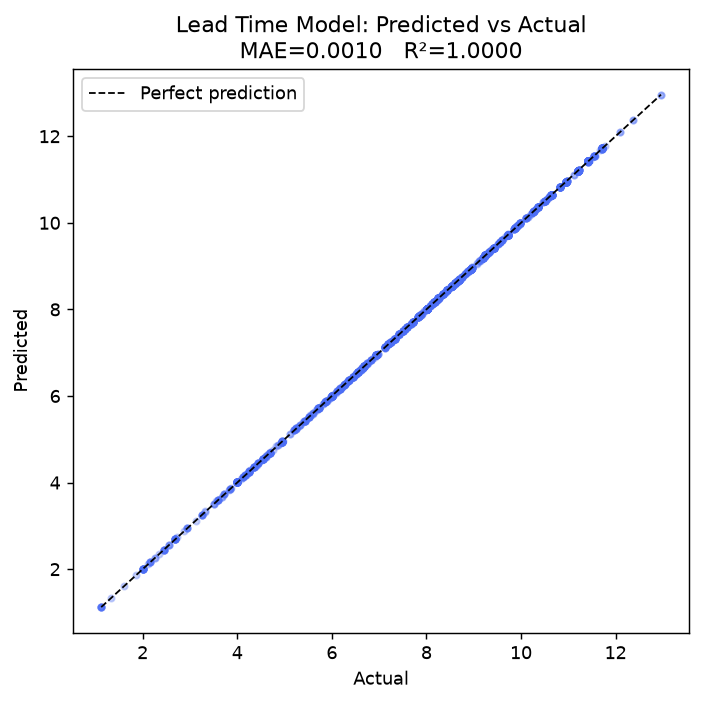
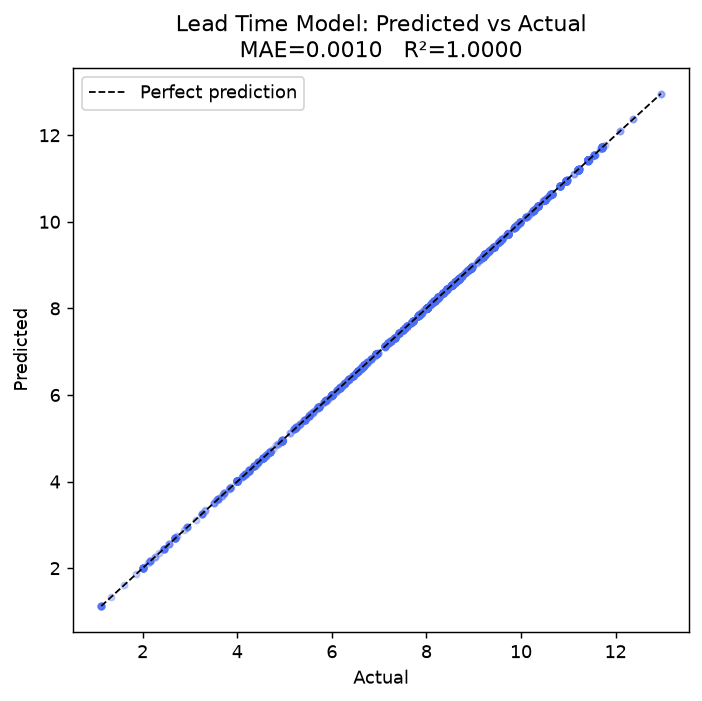
Update pages, models, charts, and optimizer

diff --git a/src/optimizer.py b/src/optimizer.py
@@ -22,14 +22,34 @@ from reference_data import FACTORIES, PRODUCT_FACTORY, PRODUCT_DIVISION, STATE_C
 PROCESSED_PATH = "data/processed.csv"
 MODEL_DIR = "models"
 
+# ---------------------------------------------------------------------------
+# Confidence tiers based on historical order count for the CURRENT factory.
+# EDA showed order volume is extremely concentrated: the 5 Wonka Bar
+# (Chocolate) products have 1,800-2,100 orders each, while several
+# Sugar/Other products have as few as 3-4. A recommendation backed by 3
+# orders is not as trustworthy as one backed by 1,800, even if the
+# predicted numbers look equally clean - this tier makes that visible
+# instead of hiding it.
+# ---------------------------------------------------------------------------
+CONFIDENCE_THRESHOLDS = {"High": 100, "Medium": 20}  # Low = below Medium threshold
+
+
+def confidence_tier(order_count: int) -> str:
+    if order_count >= CONFIDENCE_THRESHOLDS["High"]:
+        return "High"
+    if order_count >= CONFIDENCE_THRESHOLDS["Medium"]:
+        return "Medium"
+    return "Low"
+
 
 def haversine_miles(lat1, lon1, lat2, lon2):
+    """Vectorized haversine - works on scalars or numpy arrays/Series."""
     R = 3958.8
-    p1, p2 = math.radians(lat1), math.radians(lat2)
-    dphi = math.radians(lat2 - lat1)
-    dlambda = math.radians(lon2 - lon1)
-    a = math.sin(dphi / 2) ** 2 + math.cos(p1) * math.cos(p2) * math.sin(dlambda / 2) ** 2
-    return 2 * R * math.asin(math.sqrt(a))
+    lat1, lon1, lat2, lon2 = map(np.radians, [lat1, lon1, lat2, lon2])
+    dphi = lat2 - lat1
+    dlambda = lon2 - lon1
+    a = np.sin(dphi / 2) ** 2 + np.cos(lat1) * np.cos(lat2) * np.sin(dlambda / 2) ** 2
+    return 2 * R * np.arcsin(np.sqrt(a))
 
 
 def load_models():
@@ -45,6 +65,10 @@ def evaluate_product_across_factories(df, product_name, lead_pipe, profit_pipe,
     by region / ship mode) against EVERY factory by recalculating distance,
     then averages the model's predicted lead time & profit margin per
     factory. Returns a per-factory summary table.
+
+    This is the EXPENSIVE step (model inference) and does NOT depend on the
+    speed/profit slider - callers should cache this and only re-run
+    score_factories() (cheap) when the slider moves.
     """
     rows = df[df["Product Name"] == product_name].copy()
     if region_filter:
@@ -61,10 +85,11 @@ def evaluate_product_across_factories(df, product_name, lead_pipe, profit_pipe,
     records = []
     for fac_name, coords in FACTORIES.items():
         sub = rows.copy()
-        sub["DistanceToFactoryMiles"] = sub.apply(
-            lambda r: haversine_miles(coords["lat"], coords["lon"], r["cust_lat"], r["cust_lon"])
-            if pd.notna(r["cust_lat"]) else np.nan,
-            axis=1,
+        # Vectorized distance calc (no row-wise .apply - this was the main
+        # source of lag, especially for high-volume products like the
+        # Wonka Bars with 1,800-2,100 rows each).
+        sub["DistanceToFactoryMiles"] = haversine_miles(
+            coords["lat"], coords["lon"], sub["cust_lat"].values, sub["cust_lon"].values
         )
         sub["Division_clean"] = division
 
@@ -87,6 +112,27 @@ def evaluate_product_across_factories(df, product_name, lead_pipe, profit_pipe,
 
     result = pd.DataFrame(records)
     return result
+
+
+def evaluate_all_products_across_factories(df, lead_pipe, profit_pipe,
+                                            region_filter=None, ship_mode_filter=None):
+    """
+    Same as evaluate_product_across_factories, but for EVERY product at
+    once. This is the single expensive computation the Recommendation
+    Dashboard and Risk Panel need - callers should cache the result of
+    THIS function (independent of the slider), then call score_factories()
+    per-product (cheap, pure arithmetic) whenever the slider changes.
+
+    Returns a dict: {product_name: result_dataframe}
+    """
+    results = {}
+    for product in df["Product Name"].unique():
+        r = evaluate_product_across_factories(
+            df, product, lead_pipe, profit_pipe, region_filter, ship_mode_filter
+        )
+        if not r.empty:
+            results[product] = r
+    return results
 
 
 def score_factories(result_df, speed_weight: float):
@@ -120,12 +166,14 @@ def score_factories(result_df, speed_weight: float):
     return df
 
 
-def recommend_for_product(df, product_name, lead_pipe, profit_pipe, speed_weight=0.5,
-                           region_filter=None, ship_mode_filter=None):
-    result = evaluate_product_across_factories(
-        df, product_name, lead_pipe, profit_pipe, region_filter, ship_mode_filter
-    )
-    if result.empty:
+def summarize_recommendation(product_name, result, speed_weight=0.5):
+    """
+    Cheap step: takes an already-computed per-factory result table (from
+    evaluate_product_across_factories) and applies scoring/ranking for a
+    given speed_weight. No model inference happens here - safe to call on
+    every slider tick.
+    """
+    if result is None or result.empty:
         return None
     scored = score_factories(result, speed_weight)
 
@@ -154,21 +202,47 @@ def recommend_for_product(df, product_name, lead_pipe, profit_pipe, speed_weight
         "table": scored,
     }
 
-    # Simple, transparent risk flag: reassignment looks good on the
-    # weighted score, but would actually REDUCE profit margin -> flag it.
     summary["high_risk"] = bool(
         summary["is_reassignment"] and summary["profit_margin_change"] is not None
         and summary["profit_margin_change"] < -0.01
     )
+
+    # Confidence is based on how many historical orders back the CURRENT
+    # factory's numbers (the reference point every comparison is made
+    # against). Low order counts mean the underlying averages are noisy.
+    current_order_count = (
+        current_row["OrderCount"].values[0] if not current_row.empty else scored["OrderCount"].min()
+    )
+    summary["order_count"] = int(current_order_count)
+    summary["confidence"] = confidence_tier(current_order_count)
+
     return summary
 
 
-def build_full_recommendation_table(df, lead_pipe, profit_pipe, speed_weight=0.5):
-    """Ranked list of reassignment suggestions across ALL products - powers
-    the Recommendation Dashboard."""
+def recommend_for_product(df, product_name, lead_pipe, profit_pipe, speed_weight=0.5,
+                           region_filter=None, ship_mode_filter=None):
+    """Convenience wrapper: runs BOTH the expensive prediction step and the
+    cheap scoring step for a single product. Fine for one-off calls (e.g.
+    the Factory Simulator / What-If pages, which only evaluate one product
+    at a time), but the Recommendation Dashboard / Risk Panel should use
+    evaluate_all_products_across_factories() + summarize_recommendation()
+    instead so the expensive step is only computed once and cached."""
+    result = evaluate_product_across_factories(
+        df, product_name, lead_pipe, profit_pipe, region_filter, ship_mode_filter
+    )
+    return summarize_recommendation(product_name, result, speed_weight)
+
+
+def build_full_recommendation_table(all_results: dict, speed_weight=0.5):
+    """
+    Ranked list of reassignment suggestions across ALL products - powers
+    the Recommendation Dashboard. Takes the pre-computed dict from
+    evaluate_all_products_across_factories() (cheap to re-score, no model
+    inference happens here) so this is safe to call on every slider move.
+    """
     rows = []
-    for product in df["Product Name"].unique():
-        s = recommend_for_product(df, product, lead_pipe, profit_pipe, speed_weight)
+    for product, result in all_results.items():
+        s = summarize_recommendation(product, result, speed_weight)
         if s is None:
             continue
         rows.append({
@@ -179,6 +253,8 @@ def build_full_recommendation_table(df, lead_pipe, profit_pipe, speed_weight=0.5
             "Lead Time Gain (days)": round(s["lead_time_gain_days"], 2) if s["lead_time_gain_days"] is not None else None,
             "Profit Margin Change": round(s["profit_margin_change"], 4) if s["profit_margin_change"] is not None else None,
             "High Risk": s["high_risk"],
+            "Historical Orders": s["order_count"],
+            "Confidence": s["confidence"],
         })
     out = pd.DataFrame(rows)
     out = out.sort_values("Lead Time Gain (days)", ascending=False)
@@ -188,6 +264,7 @@ def build_full_recommendation_table(df, lead_pipe, profit_pipe, speed_weight=0.5
 if __name__ == "__main__":
     df = pd.read_csv(PROCESSED_PATH)
     lead_pipe, profit_pipe = load_models()
-    table = build_full_recommendation_table(df, lead_pipe, profit_pipe, speed_weight=0.5)
+    all_results = evaluate_all_products_across_factories(df, lead_pipe, profit_pipe)
+    table = build_full_recommendation_table(all_results, speed_weight=0.5)
     print(table.to_string(index=False))
     table.to_csv("outputs/recommendations.csv", index=False)

diff --git a/app/pages/3_Recommendation_Dashboard.py b/app/pages/3_Recommendation_Dashboard.py
@@ -16,16 +16,17 @@ speed_weight = st.sidebar.slider(
 )
 
 show_only_reassignments = st.sidebar.checkbox("Show only suggested reassignments", value=True)
+hide_low_confidence = st.sidebar.checkbox("Hide low-confidence recommendations", value=False)
 
-table = load_full_recommendations(speed_weight)
-
-if show_only_reassignments:
-    table = table[table["Reassignment Suggested"]]
+full_table = load_full_recommendations(speed_weight)
+table = full_table[full_table["Reassignment Suggested"]] if show_only_reassignments else full_table
+if hide_low_confidence:
+    table = table[table["Confidence"] != "Low"]
 
 col1, col2, col3 = st.columns(3)
-col1.metric("Products Analyzed", len(load_full_recommendations(speed_weight)))
-col2.metric("Reassignments Suggested", int(load_full_recommendations(speed_weight)["Reassignment Suggested"].sum()))
-col3.metric("High-Risk Flags", int(load_full_recommendations(speed_weight)["High Risk"].sum()))
+col1.metric("Products Analyzed", len(full_table))
+col2.metric("Reassignments Suggested", int(full_table["Reassignment Suggested"].sum()))
+col3.metric("High-Risk Flags", int(full_table["High Risk"].sum()))
 
 st.markdown("---")
 
@@ -36,9 +37,16 @@ st.dataframe(
     }).map(
         lambda v: "background-color:#ffe3e3" if v is True else "",
         subset=["High Risk"],
+    ).map(
+        lambda v: {"Low": "background-color:#fff3bf", "Medium": "", "High": "background-color:#ebfbee"}.get(v, ""),
+        subset=["Confidence"],
     ),
     use_container_width=True,
     hide_index=True,
+)
+st.caption(
+    "🟢 High confidence = 100+ historical orders backing this product's current factory. "
+    "🟡 Low confidence = fewer than 20 — treat as directional, not conclusive."
 )
 
 st.subheader("Expected lead-time gain by product")

diff --git a/app/pages/2_What_If_Analysis.py b/app/pages/2_What_If_Analysis.py
@@ -1,7 +1,7 @@
 import plotly.graph_objects as go
 import streamlit as st
 
-from utils import load_data, load_models, sidebar_filters, recommend_for_product
+from utils import load_data, load_models, sidebar_filters, evaluate_product_cached, summarize_recommendation
 
 st.set_page_config(page_title="What-If Analysis", page_icon="🔀", layout="wide")
 st.title("🔀 What-If Scenario Analysis")
@@ -12,14 +12,25 @@ lead_pipe, profit_pipe = load_models()
 
 product, region, ship_mode, speed_weight = sidebar_filters(df, key_prefix="whatif")
 
-summary = recommend_for_product(
-    df, product, lead_pipe, profit_pipe, speed_weight,
-    region_filter=region, ship_mode_filter=ship_mode,
-)
+# Expensive step (model inference) is cached and only re-runs when
+# product/region/ship_mode change. Scoring against the slider is cheap.
+result = evaluate_product_cached(product, region_filter=region, ship_mode_filter=ship_mode)
+summary = summarize_recommendation(product, result, speed_weight)
 
 if summary is None:
     st.warning("No historical orders match this product + filter combination.")
     st.stop()
+
+confidence_colors = {"High": "🟢", "Medium": "🟡", "Low": "🔴"}
+st.caption(
+    f"{confidence_colors[summary['confidence']]} **{summary['confidence']} confidence** "
+    f"— based on {summary['order_count']} historical order(s) for this product's current factory."
+)
+if summary["confidence"] == "Low":
+    st.warning(
+        "⚠️ This product has very few historical orders. Treat this recommendation as "
+        "directional, not conclusive — collect more shipment data before acting on it."
+    )
 
 col1, col2, col3 = st.columns(3)
 col1.metric("Current Factory", summary["current_factory"])

diff --git a/app/pages/4_Risk_Impact_Panel.py b/app/pages/4_Risk_Impact_Panel.py
@@ -18,13 +18,32 @@ table = load_full_recommendations(speed_weight)
 risky = table[table["High Risk"]]
 safe_reassignments = table[table["Reassignment Suggested"] & ~table["High Risk"]]
 profit_losses = table[table["Profit Margin Change"] < 0]
+low_confidence_reassignments = table[table["Reassignment Suggested"] & (table["Confidence"] == "Low")]
 
-col1, col2, col3 = st.columns(3)
+col1, col2, col3, col4 = st.columns(4)
 col1.metric("🔴 High-Risk Reassignments", len(risky))
 col2.metric("🟢 Safe Reassignments", len(safe_reassignments))
 col3.metric("📉 Any Profit Decline", len(profit_losses))
+col4.metric("🟡 Low-Confidence Reassignments", len(low_confidence_reassignments))
 
 st.markdown("---")
+
+if len(low_confidence_reassignments):
+    st.subheader("🟡 Low-Confidence Reassignments")
+    st.markdown(
+        "These products have **fewer than 20 historical orders** backing "
+        "their current-factory numbers. The recommendation may be directionally "
+        "correct, but shouldn't be treated as statistically conclusive - "
+        "collect more shipment data before acting."
+    )
+    st.dataframe(
+        low_confidence_reassignments.style.format({
+            "Lead Time Gain (days)": "{:.2f}",
+            "Profit Margin Change": "{:+.2%}",
+        }),
+        use_container_width=True, hide_index=True,
+    )
+    st.markdown("---")
 
 if len(risky):
     st.subheader("🔴 High-Risk Reassignments")

diff --git a/app/pages/1_Factory_Simulator.py b/app/pages/1_Factory_Simulator.py
@@ -6,7 +6,7 @@ from utils import (
     load_data,
     load_models,
     sidebar_filters,
-    evaluate_product_across_factories,
+    evaluate_product_cached,
     score_factories,
 )
 
@@ -19,9 +19,9 @@ lead_pipe, profit_pipe = load_models()
 
 product, region, ship_mode, speed_weight = sidebar_filters(df, key_prefix="sim")
 
-result = evaluate_product_across_factories(
-    df, product, lead_pipe, profit_pipe, region_filter=region, ship_mode_filter=ship_mode
-)
+# Expensive step (model inference) is cached and only re-runs when
+# product/region/ship_mode change - NOT when the slider moves.
+result = evaluate_product_cached(product, region_filter=region, ship_mode_filter=ship_mode)
 
 if result.empty:
     st.warning("No historical orders match this product + filter combination.")